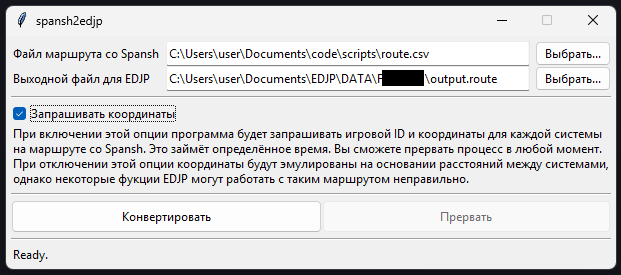
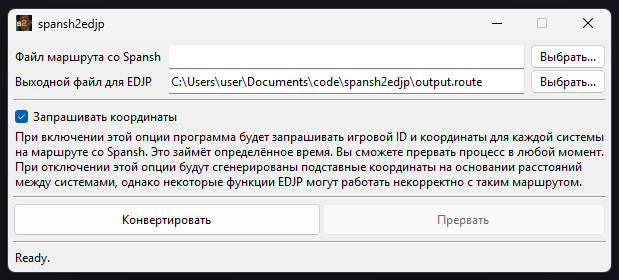
edit fetch_coords_descr text

Changed region(s): [[0.0, 0.0, 1.0, 0.9891], [0.706, 0.7564, 0.7981, 0.8145]]

diff --git a/spansh2edjp.py b/spansh2edjp.py
@@ -63,7 +63,12 @@ class MainFrame(ttk.Frame):
         self.coords_frame = ttk.Frame(self)
         self.fetch_coords_var = tk.BooleanVar(value=True)
         self.fetch_coords_checkbox = ttk.Checkbutton(self.coords_frame, text="Запрашивать координаты", variable=self.fetch_coords_var)
-        self.fetch_coords_descr = ttk.Label(self.coords_frame, wraplength=600, text="При включении этой опции программа будет запрашивать игровой ID и координаты для каждой системы на маршруте со Spansh. Это займёт определённое время. Вы сможете прервать процесс в любой момент.\nПри отключении этой опции координаты будут эмулированы на основании расстояний между системами, однако некоторые фукции EDJP могут работать с таким маршрутом неправильно.")  # noqa
+        self.fetch_coords_descr = ttk.Label(self.coords_frame, wraplength=600, text=(
+            "При включении этой опции программа будет запрашивать игровой ID и координаты для каждой системы на маршруте со Spansh. "
+            "Это займёт определённое время. Вы сможете прервать процесс в любой момент.\n"
+            "При отключении этой опции будут сгенерированы подставные координаты на основании расстояний между системами, "
+            "однако некоторые функции EDJP могут работать некорректно с таким маршрутом."
+        ))
         self.fetch_coords_checkbox.grid(row=0, column=0, sticky="NWSE")
         self.fetch_coords_descr.grid(row=1, column=0, sticky="NWSE")
 
